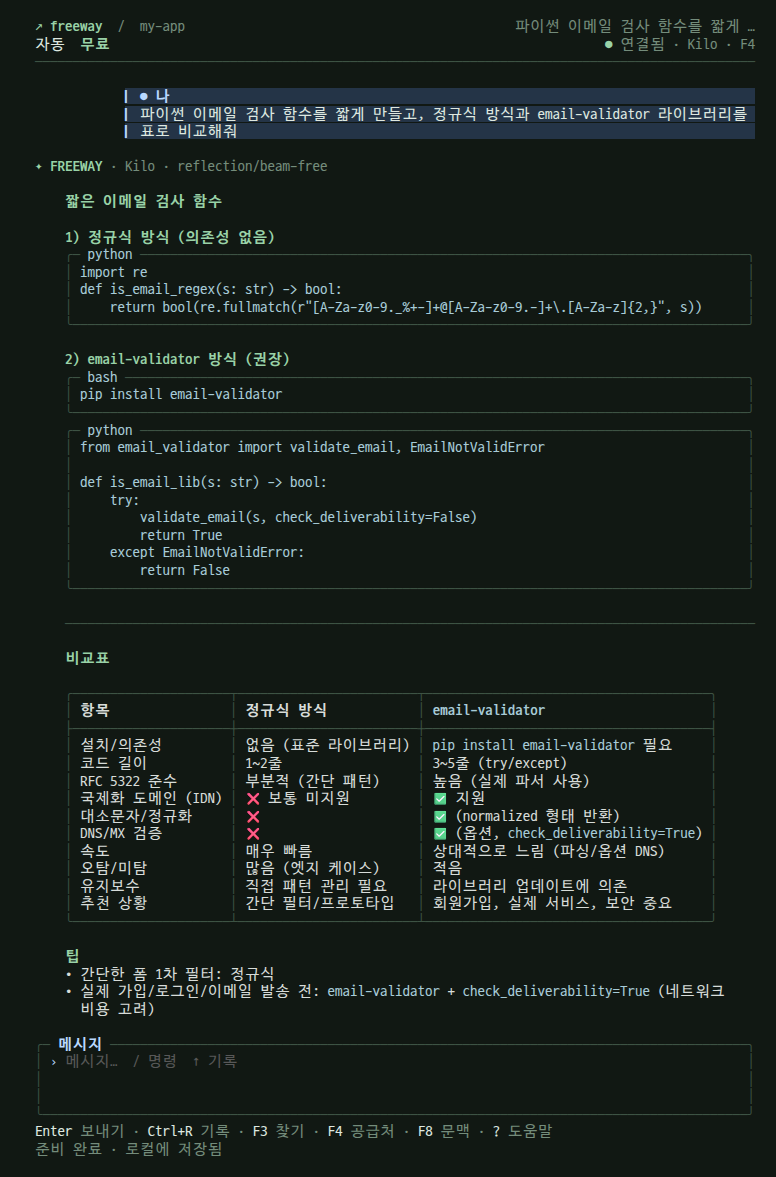
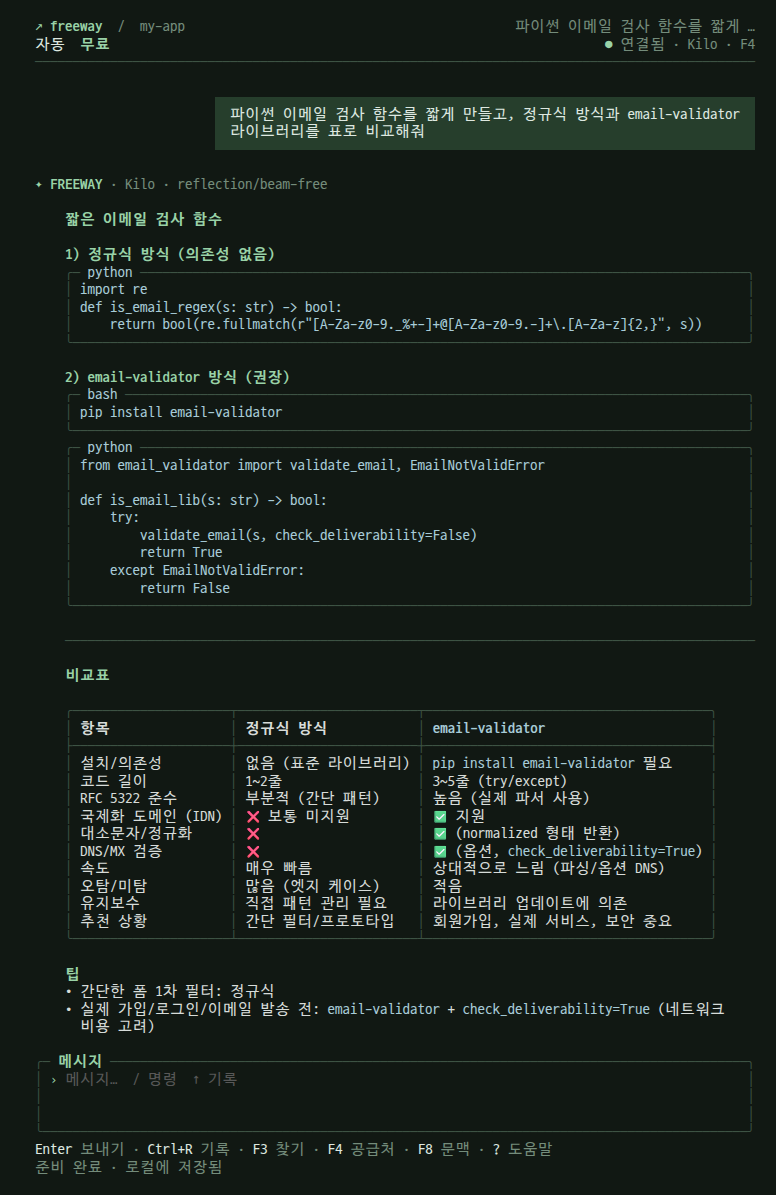
feat(tui): 내 메시지를 글 길이에 맞춘 오른쪽 말풍선으로 바꾸고 테마 색에 맞춘다

diff --git a/cli/tui/render.go b/cli/tui/render.go
@@ -4,6 +4,7 @@ import (
 	"fmt"
 	"image/color"
 	"regexp"
+	"slices"
 	"strings"
 	"time"
 	"unicode"
@@ -271,26 +272,39 @@ func sumInts(values []int) int {
 }
 
 func (m Model) renderUserMessage(message client.Message, width int, colors schemeColors) (string, []transcriptWrap) {
-	inset := min(16, max(2, width/8))
-	panelWidth := width - inset - 1
-	gutter := strings.Repeat(" ", inset)
-	edge := lipgloss.NewStyle().Foreground(colors.userAccent).Background(colors.userPanel).Render("▎")
-	panel := lipgloss.NewStyle().Background(colors.userPanel).Foreground(colors.text)
-	title := panel.Foreground(colors.userAccent).Bold(true)
-	rows := []string{gutter + edge + title.Render(padCells(m.tr(" ● YOU", " ● 나"), panelWidth))}
-	bodyWidth := panelWidth - 2
-	var wraps []transcriptWrap
-	for _, line := range strings.Split(terminalSafe(message.Content), "\n") {
-		parts := strings.Split(ansi.Wrap(line, bodyWidth, ""), "\n")
-		recordWordWrap(&wraps, len(rows), inset+len("▎ "), line, parts)
-		for _, part := range parts {
-			rows = append(rows, gutter+edge+panel.Render(padCells(" "+part, panelWidth)))
+	// A right-aligned bubble as wide as its text. Half blocks above and below pad it by half a row.
+	bodyWidth := max(1, width-min(16, max(2, width/8))-4)
+	var lines [][]string
+	var sources []string
+	if message.Content != "" || len(message.Files) == 0 {
+		for _, line := range strings.Split(terminalSafe(message.Content), "\n") {
+			lines = append(lines, strings.Split(ansi.Wrap(line, bodyWidth, ""), "\n"))
+			sources = append(sources, line)
 		}
 	}
+	var files []string
 	for _, file := range message.Files {
-		label := ansi.Truncate(m.tr("[file] ", "[파일] ")+terminalSafe(file.Path), bodyWidth, "…")
-		rows = append(rows, gutter+edge+title.Bold(false).Render(padCells(" "+label, panelWidth)))
+		files = append(files, ansi.Truncate(m.tr("[file] ", "[파일] ")+terminalSafe(file.Path), bodyWidth, "…"))
 	}
+	textWidth := 0
+	for _, part := range append(slices.Concat(lines...), files...) {
+		textWidth = max(textWidth, ansi.StringWidth(part))
+	}
+	gutter := strings.Repeat(" ", max(0, width-textWidth-4))
+	edge := lipgloss.NewStyle().Foreground(colors.selected)
+	panel := lipgloss.NewStyle().Background(colors.selected).Foreground(colors.text)
+	rows := []string{gutter + edge.Render(strings.Repeat("▄", textWidth+4))}
+	var wraps []transcriptWrap
+	for i, parts := range lines {
+		recordWordWrap(&wraps, len(rows), len(gutter)+2, sources[i], parts)
+		for _, part := range parts {
+			rows = append(rows, gutter+panel.Render("  "+padCells(part, textWidth)+"  "))
+		}
+	}
+	for _, file := range files {
+		rows = append(rows, gutter+panel.Foreground(colors.accent).Render("  "+padCells(file, textWidth)+"  "))
+	}
+	rows = append(rows, gutter+edge.Render(strings.Repeat("▀", textWidth+4)))
 	return strings.Join(rows, "\n"), wraps
 }
 

diff --git a/cli/tui/styles.go b/cli/tui/styles.go
@@ -15,7 +15,6 @@ import (
 
 type schemeColors struct {
 	text, accent, border, active, code, muted, selected color.Color
-	userAccent, userPanel                               color.Color
 	warn                                                color.Color
 }
 
@@ -83,16 +82,14 @@ func grooveColors() schemeColors {
 		return lipgloss.Color(dark)
 	}
 	colors := schemeColors{
-		text:       adaptive("#DEE8E0", "#23372B"),
-		accent:     adaptive("#99D2A7", "#236844"),
-		border:     adaptive("#3D5344", "#8BAA94"),
-		active:     adaptive("#99D2A7", "#236844"),
-		code:       adaptive("#A7CBD7", "#245D77"),
-		muted:      adaptive("#748C7B", "#607468"),
-		selected:   adaptive("#263E2C", "#E2EFE5"),
-		userAccent: adaptive("#B9D9FF", "#234F79"),
-		userPanel:  adaptive("#243447", "#E5F0FC"),
-		warn:       adaptive("#F08C7A", "#B23A2B"),
+		text:     adaptive("#DEE8E0", "#23372B"),
+		accent:   adaptive("#99D2A7", "#236844"),
+		border:   adaptive("#3D5344", "#8BAA94"),
+		active:   adaptive("#99D2A7", "#236844"),
+		code:     adaptive("#A7CBD7", "#245D77"),
+		muted:    adaptive("#748C7B", "#607468"),
+		selected: adaptive("#263E2C", "#E2EFE5"),
+		warn:     adaptive("#F08C7A", "#B23A2B"),
 	}
 	switch theme {
 	case themeIndigo:

diff --git a/cli/tui/prompt-pane.go b/cli/tui/prompt-pane.go
@@ -19,7 +19,7 @@ func newPrompt() textarea.Model {
 		return "  "
 	})
 	styles := input.Styles()
-	styles.Focused.Prompt = lipgloss.NewStyle().Foreground(colors.userAccent)
+	styles.Focused.Prompt = lipgloss.NewStyle().Foreground(colors.accent)
 	styles.Focused.CursorLine = styles.Focused.CursorLine.Background(lipgloss.NoColor{})
 	styles.Focused.EndOfBuffer = lipgloss.NewStyle().Foreground(colors.active)
 	styles.Focused.LineNumber = lipgloss.NewStyle().Foreground(colors.accent)
@@ -38,7 +38,7 @@ func newPrompt() textarea.Model {
 func applyPromptTheme(input *textarea.Model) {
 	c := grooveColors()
 	styles := input.Styles()
-	styles.Focused.Prompt = lipgloss.NewStyle().Foreground(c.userAccent)
+	styles.Focused.Prompt = lipgloss.NewStyle().Foreground(c.accent)
 	styles.Focused.CursorLine = styles.Focused.CursorLine.Background(lipgloss.NoColor{})
 	styles.Focused.EndOfBuffer = lipgloss.NewStyle().Foreground(c.muted)
 	input.SetStyles(styles)

diff --git a/cli/tui/convenience_test.go b/cli/tui/convenience_test.go
@@ -366,7 +366,7 @@ func TestEnglishWorkspaceHasRoleLabelsAndNativeCursor(t *testing.T) {
 	m.prompt.SetValue("Next question")
 	view := m.View()
 	plain := ansi.Strip(view.Content)
-	if !strings.Contains(plain, "● YOU") || !strings.Contains(plain, "✦ FREEWAY") || !strings.Contains(plain, "╭─ go") {
+	if !strings.Contains(plain, "Review this function") || !strings.Contains(plain, "✦ FREEWAY") || !strings.Contains(plain, "╭─ go") {
 		t.Fatal("conversation roles or code frame are missing")
 	}
 	if view.Cursor == nil || view.Cursor.Y < 0 || view.Cursor.Y >= m.height || m.prompt.VirtualCursor() {

diff --git a/cli/tui/markdown_test.go b/cli/tui/markdown_test.go
@@ -50,3 +50,11 @@ func TestMarkdownDrawsTablesRulesAndNestedCode(t *testing.T) {
 		}
 	}
 }
+
+func TestUserMessageIsARightAlignedBubbleAsWideAsItsText(t *testing.T) {
+	out, _ := New().renderUserMessage(newMessage("user", "hi there"), 40, grooveColors())
+	lines := strings.Split(ansi.Strip(out), "\n")
+	if len(lines) != 3 || lines[0] != strings.Repeat(" ", 28)+strings.Repeat("▄", 12) || lines[1] != strings.Repeat(" ", 28)+"  hi there  " {
+		t.Fatalf("bubble is not right-aligned to its text: %q", lines)
+	}
+}

diff --git a/cli/tui/workspace.go b/cli/tui/workspace.go
@@ -327,7 +327,7 @@ func (m Model) composerView(width int) string {
 	c := grooveColors()
 	border := lipgloss.NewStyle().Foreground(c.border)
 	muted := lipgloss.NewStyle().Foreground(c.muted)
-	title := lipgloss.NewStyle().Foreground(c.userAccent).Bold(true)
+	title := lipgloss.NewStyle().Foreground(c.accent).Bold(true)
 	label := m.tr(" Message ", " 메시지 ")
 	if m.busy {
 		label = m.tr(" Next message · Esc to stop response ", " 다음 메시지 · Esc로 응답 중지 ")
